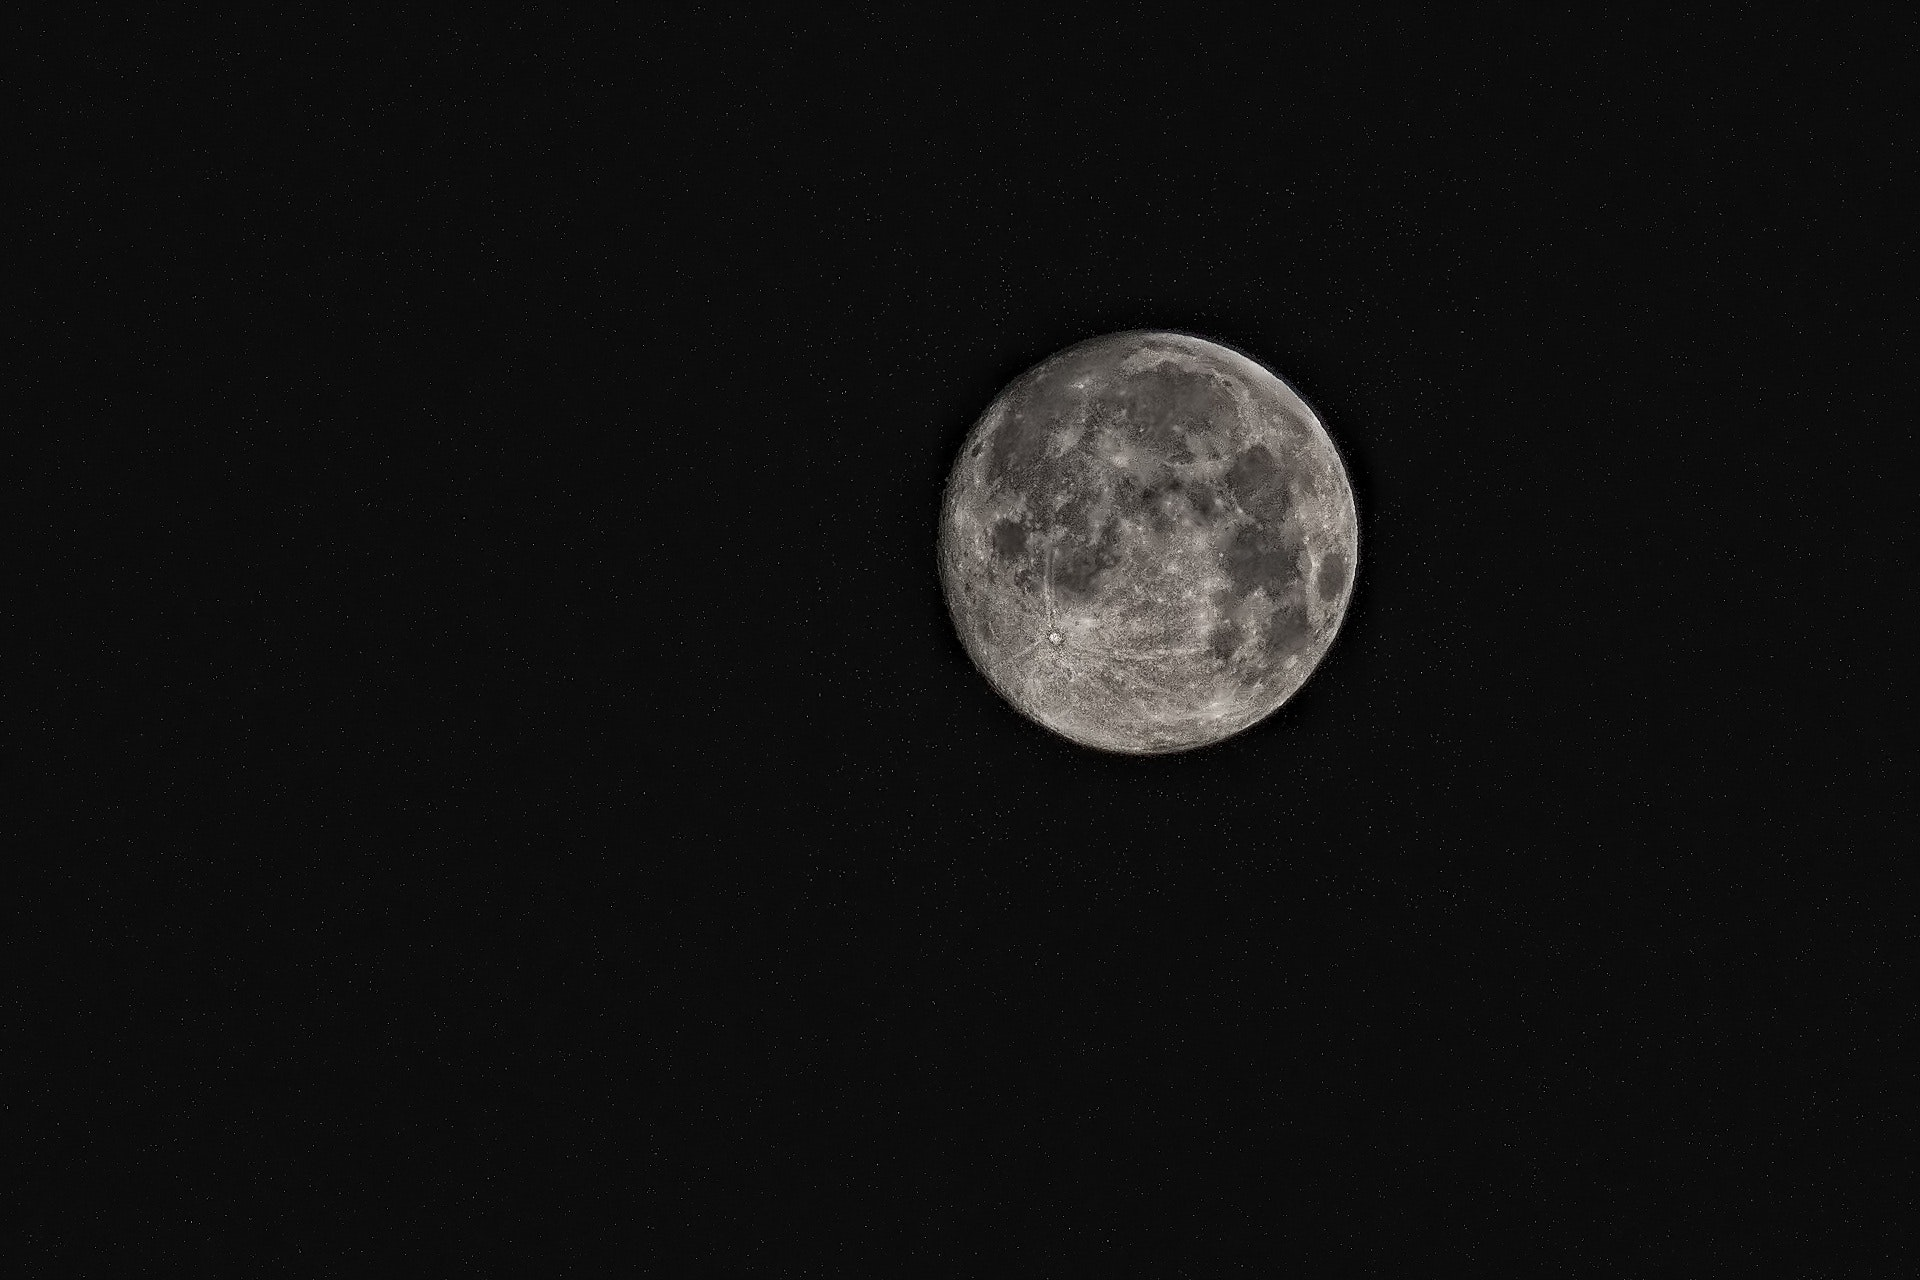
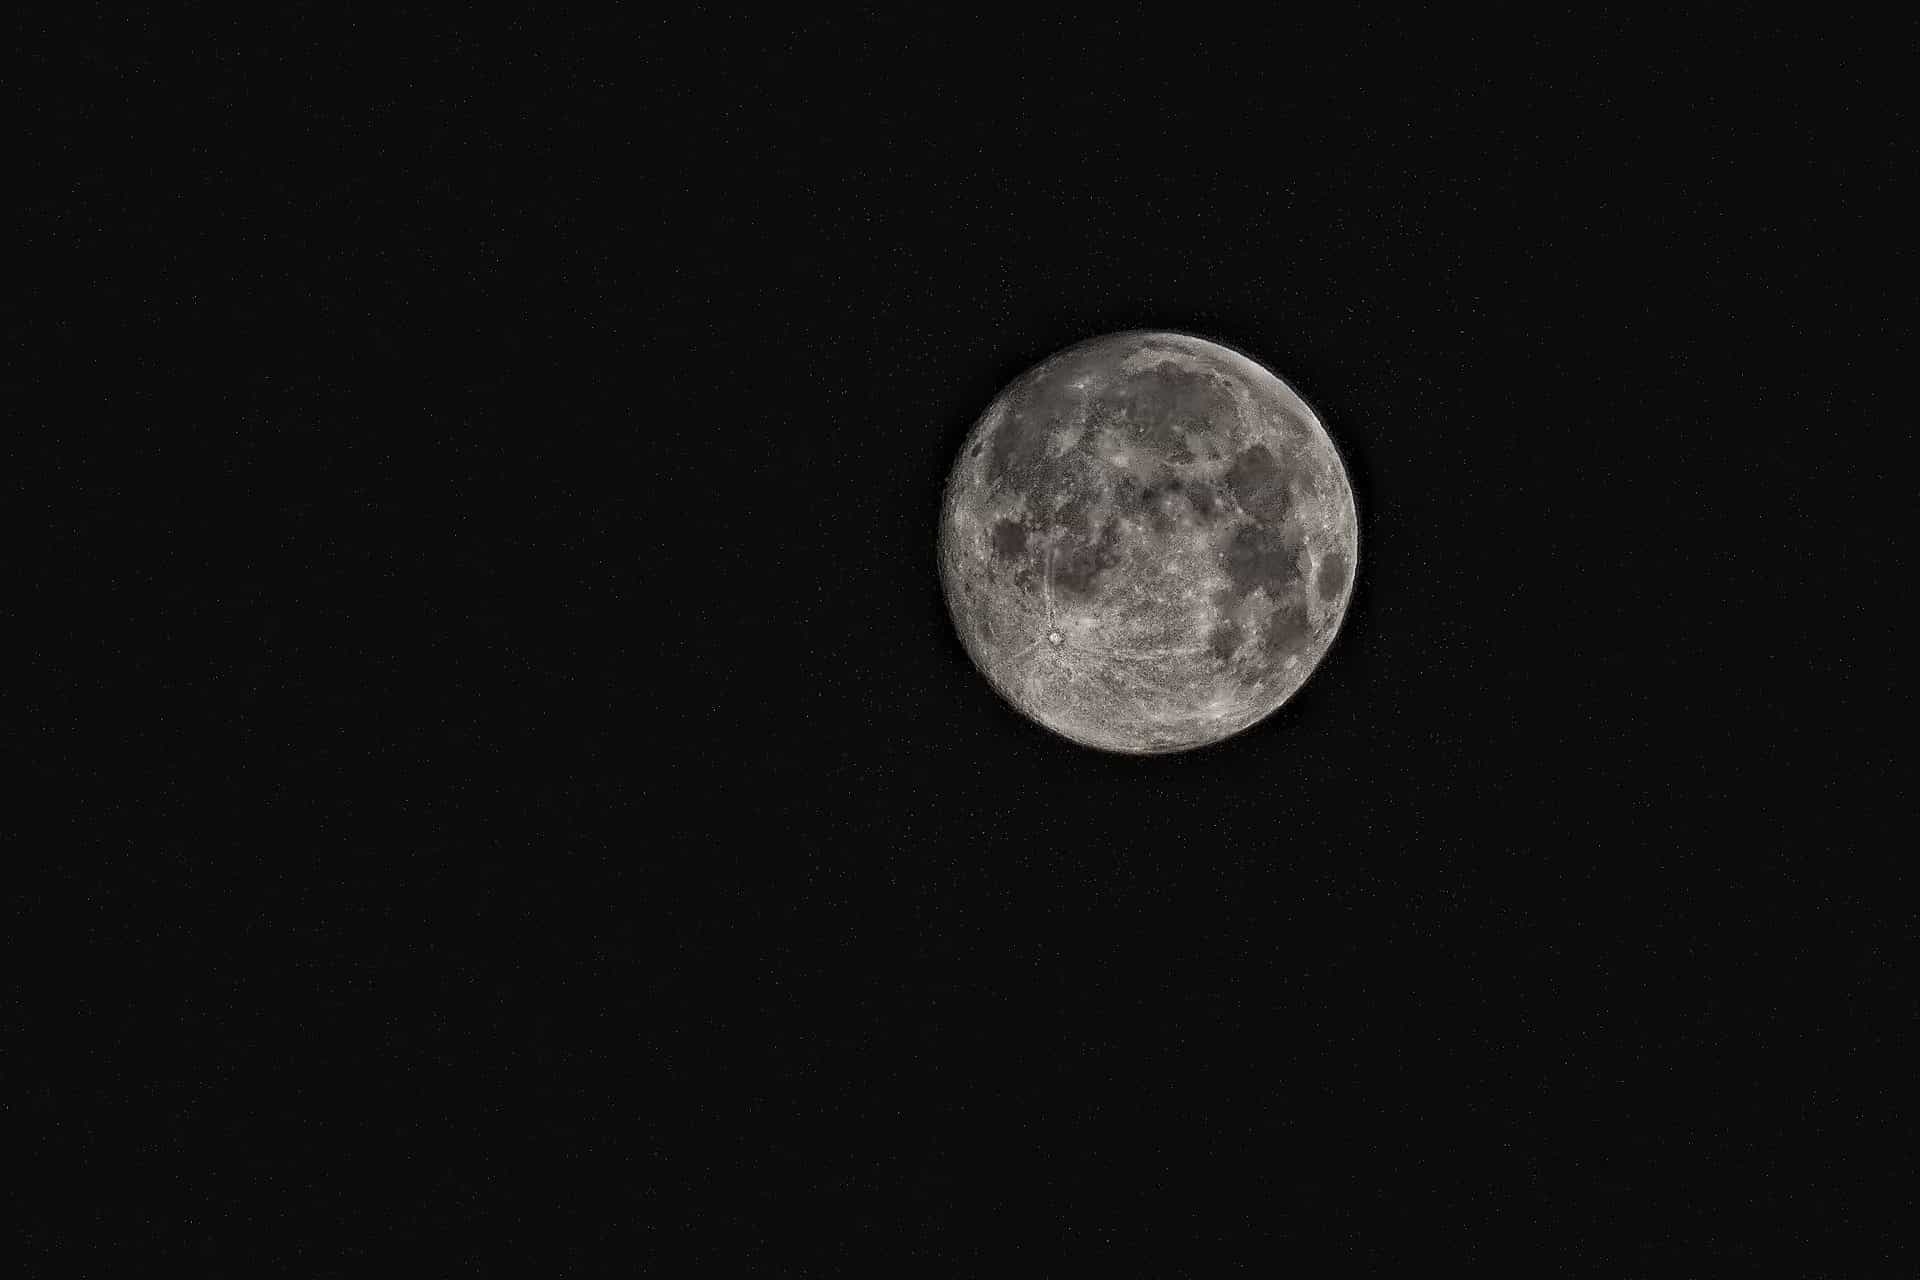
images optimised

Changed region(s): [[0.5, 0.4375, 0.625, 0.5938]]

diff --git a/src/components/Hero/index.jsx b/src/components/Hero/index.jsx
@@ -16,8 +16,21 @@ export default (props) => {
 		}
 	}
 
+	const debounce = (func, ms=5) => {
+		let timeout
+		return (props) => {
+			const later = () => {
+				func.apply(this, props)
+			}
+			const trigger = !timeout
+			clearTimeout(timeout)
+			timeout = setTimeout(later, ms)
+			trigger && func.apply(this, props)
+		}
+	}
+
 	useEffect(() => {
-		window.addEventListener("scroll", transform)
+		window.addEventListener("scroll", debounce(transform))
 	})
 
 	return (

diff --git a/src/App.js b/src/App.js
@@ -3,7 +3,6 @@ import { Grid, Typography, withStyles, Fade } from '@material-ui/core'
 import { Hero, ContentContainer, AnimatedText } from './components'
 import hero3Img from './assets/hero3.jpg'
 import hero2Img from './assets/hero5.jpg'
-import heroImg from './assets/hero1.jpg'
 
 const styles = {
   headerQuote: {
